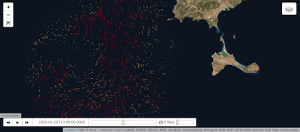
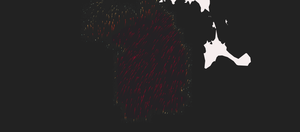
docs(examples): read the HF radar currents through OPeNDAP in example 18
The SOCIB Data API endpoint used by the example is gone. The velocity
layer now reads the gridded U/V from THREDDS through OPeNDAP (DAP2
ASCII): the time axis from .dds/.das, one grid per time step, and
builds the leaflet-velocity data itself. Brackets in the constraint
expression are percent-encoded because Tomcat rejects them raw. Drop
the unused underscore.js, load Leaflet from jsDelivr and fix the link
to example 17. Refresh the index thumbnail.

diff --git a/examples/js/example18.js b/examples/js/example18.js
@@ -3,167 +3,194 @@ var endDate = new Date();
 endDate.setUTCHours(endDate.getUTCHours() - 1);
 endDate.setUTCMinutes(0, 0, 0);
 
+/*
+ * HF radar surface currents read from a THREDDS dataset through OPeNDAP:
+ * one small ASCII subset of U and V per time step.
+ */
 L.TimeDimension.Layer.VelocityLayer.Radar = L.TimeDimension.Layer.VelocityLayer.extend({
 
     initialize: function(options) {
         L.TimeDimension.Layer.VelocityLayer.prototype.initialize.call(this, options);
-        this._socibDataSource = this.options.socibDataSource || null;
-        this._apiKey = this.options.apiKey || null;
-        this._proxy = this.options.proxy || null;
-
-        // Update availableTimes from datasource metadata
+        this._uVariable = this.options.uVariable || 'U';
+        this._vVariable = this.options.vVariable || 'V';
+        this._maxTimes = this.options.maxTimes || 744; // last 31 days of hourly data
         this._updateTimeDimension = this.options.updateTimeDimension || false;
         this._updateTimeDimensionMode = this.options.updateTimeDimensionMode || 'intersect'; // 'union' or 'replace'
-        this._period = this.options.period || 'PT1H';
         this._setDefaultTime = this.options.setDefaultTime || false;
-        this._endTime = this.options.endTime || null;
-        this._metadataRequested = false;
-        if (this._updateTimeDimension) {
-            this._requestDataSourceMetadata();
-        }
-    },    
-
-    onAdd: function(map) {
-        L.TimeDimension.Layer.VelocityLayer.prototype.onAdd.call(this, map);
-        if (this._updateTimeDimension) {
-            if (this._endTime === null) {
-                this._requestDataSourceMetadata();
-            } else {
-                this._updateTimeDimensionAvailableTimes();
-            }
-        }
+        this._grid = null; // {lat: [], lon: [], times: [ms], firstIndex: int}
+        this._pendingTime = null;
+        this._requestGrid();
     },
 
-    _constructQuery: function(time) {
-        var startDate = new Date(time);
-        var endDate = new Date(startDate.getTime());
-        L.TimeDimension.Util.addTimeDuration(endDate, "PT30M", false);
-        var timeParams =
-            "&initial_datetime=" +
-            startDate.toISOString().substring(0, 19) +
-            "&end_datetime=" +
-            endDate.toISOString().substring(0, 19);
-        var url = this._baseURL + this._socibDataSource +
-                    "/data/?max_qc_value=3&standard_name=northward_sea_water_velocity&standard_name=eastward_sea_water_velocity&processing_level=L1&format=json" + 
-                    timeParams;
-        if (this._apiKey) {
-            url = url + "&api_key=" + this._apiKey;
+    _getDataForTime: function(time) {
+        if (!this._map) {
+            return;
         }
-        if (this._proxy) {
-            url = this._proxy + "?url=" + encodeURIComponent(url);
+        if (!this._grid) {
+            this._pendingTime = time;
+            return;
         }
-        return url;
+        var index = this._grid.times.indexOf(time);
+        if (index === -1) {
+            this._setDataForTime(time, []);
+            return;
+        }
+        index = index + this._grid.firstIndex;
+        var subset = '[' + index + '][0:1:' + (this._grid.lat.length - 1) + '][0:1:' + (this._grid.lon.length - 1) + ']';
+        var url = this._baseURL + '.ascii?' + this._encodeConstraint(this._uVariable + subset + ',' + this._vVariable + subset);
+        this._request(url, (function(text) {
+            var data = this._parseOpendapAscii(text);
+            this._setDataForTime(time, this._buildVelocityData(data[this._uVariable], data[this._vVariable], time));
+        }).bind(this));
     },
 
-    _processLoadedData: function(data) {
-        if (data.length === 0) {
-            return [];
+    _setDataForTime: function(time, data) {
+        this._currentTimeData = data;
+        this._currentLoadedTime = time;
+        if (this._timeDimension && time == this._timeDimension.getCurrentTime() && !this._timeDimension.isLoading()) {
+            this._update();
         }
-        findVariable = function(standard_name, variable) {
-            return variable.standard_name === standard_name;
-        };
-        var u = data[0].variables.find(findVariable.bind(this, "eastward_sea_water_velocity"));
-        var v = data[0].variables.find(findVariable.bind(this, "northward_sea_water_velocity"));
-        var lat = data[0].coordinates.latitude;
-        var lon = data[0].coordinates.longitude;
-        var time = data[0].coordinates.time.data;
-
-        var u_header = {
-            parameterUnit: u.units,
-            parameterNumberName: u.standard_name,
-            parameterNumber: 2,
-            parameterCategory: 2,
-            la1: lat.data[0],
-            la2: lat.data[lat.data.length - 1],
-            lo1: lon.data[0],
-            lo2: lon.data[lon.data.length - 1],
-            nx: lon.data.length,
-            ny: lat.data.length,
-            refTime: time
-        };
-        u_header["dx"] = (u_header["lo2"] - u_header["lo1"]) / u_header["nx"];
-        u_header["dy"] = (u_header["la1"] - u_header["la2"]) / u_header["ny"];
-
-        var v_header = {
-            parameterUnit: v.units,
-            parameterNumberName: v.standard_name,
-            parameterNumber: 3, // northward-v
-            parameterCategory: 2,
-            la1: lat.data[0],
-            la2: lat.data[lat.data.length - 1],
-            lo1: lon.data[0],
-            lo2: lon.data[lon.data.length - 1],
-            nx: lon.data.length,
-            ny: lat.data.length,
-            refTime: time
-        };
-        v_header["dx"] = (v_header["lo2"] - v_header["lo1"]) / v_header["nx"];
-        v_header["dy"] = (v_header["la1"] - v_header["la2"]) / v_header["ny"];
-
-        return [
-            {
-                header: u_header,
-                data: _.flatten(u.data[0])
-            },
-            {
-                header: v_header,
-                data: _.flatten(v.data[0])
-            }
-        ];
+        this.fire('timeload', {
+            time: time
+        });
     },
 
-    _setEndTime: function(endTime) {
-        this._endTime = endTime;        
-    },
-
-    _getDefaultTime: function() {
-        return this._endTime;
+    // Grid: the size of the time axis (DDS), its units (DAS), then LAT, LON and the last times (ASCII)
+    _requestGrid: function() {
+        this._request(this._baseURL + '.dds', (function(dds) {
+            var size = parseInt(dds.match(/time\[time = (\d+)\]/)[1], 10);
+            this._request(this._baseURL + '.das', (function(das) {
+                var units = das.match(/time \{[^}]*units "hours since ([^"]+)"/)[1]; // e.g. 2012-06-01 00:00:00.000 UTC
+                var origin = Date.parse(units.replace(' ', 'T').replace(' UTC', 'Z'));
+                var first = Math.max(0, size - this._maxTimes);
+                var url = this._baseURL + '.ascii?' + this._encodeConstraint('LAT,LON,time[' + first + ':1:' + (size - 1) + ']');
+                this._request(url, (function(text) {
+                    var data = this._parseOpendapAscii(text);
+                    var times = [];
+                    for (var i = 0, l = data.time.length; i < l; i++) {
+                        times.push(origin + data.time[i] * 3600000);
+                    }
+                    this._grid = {
+                        lat: data.LAT,
+                        lon: data.LON,
+                        times: times,
+                        firstIndex: first
+                    };
+                    this._updateTimeDimensionAvailableTimes();
+                    if (this._pendingTime !== null) {
+                        this._getDataForTime(this._pendingTime);
+                        this._pendingTime = null;
+                    }
+                }).bind(this));
+            }).bind(this));
+        }).bind(this));
     },
 
     _updateTimeDimensionAvailableTimes: function() {
         if (this._timeDimension && this._updateTimeDimension) {
-            var startTime = new Date(this._timeDimension.getAvailableTimes()[0]);
-            var times = L.TimeDimension.Util.explodeTimeRange(startTime, this._endTime, this._period);
-            this._timeDimension.setAvailableTimes(times, this._updateTimeDimensionMode);
+            this._timeDimension.setAvailableTimes(this._grid.times, this._updateTimeDimensionMode);
             if (this._setDefaultTime) {
-                var defaultTime = this._getDefaultTime();
-                if (defaultTime !== this._timeDimension.getCurrentTime()){
-                    this._timeDimension.setCurrentTime(this._getDefaultTime());
-                }
+                var times = this._timeDimension.getAvailableTimes();
+                this._timeDimension.setCurrentTime(times[times.length - 1]);
             }
         }
     },
 
-    _requestDataSourceMetadata: function() {
-        if (this._metadataRequested) {
-            return;
-        }
-        this._metadataRequested = true;
-        var url = this._baseURL + this._socibDataSource + "/?";
-        if (this._apiKey) {
-            url = url + "&api_key=" + this._apiKey;
-        }
-        if (this._proxy) {
-            url = this._proxy + "?url=" + encodeURIComponent(url);
-        }
+    // Tomcat rejects raw brackets in the query string
+    _encodeConstraint: function(constraint) {
+        return constraint.replace(/\[/g, '%5B').replace(/\]/g, '%5D');
+    },
+
+    _request: function(url, callback) {
         var oReq = new XMLHttpRequest();
-        oReq.addEventListener("load", (function(xhr) {
-            var data = null;
-            try {
-                var response = xhr.currentTarget.response;
-                data = JSON.parse(response);
-            } catch(e) {
-                console.log("Error parsing API response", e);
-            }
-            if (data !== null){
-                var end_datetime = new Date(Date.parse(data['end_datetime']));
-                this._setEndTime(end_datetime);
-                this._updateTimeDimensionAvailableTimes();
-            }
-        }).bind(this));        
+        oReq.addEventListener("load", function(xhr) {
+            callback(xhr.currentTarget.response);
+        });
         oReq.open("GET", url);
         oReq.send();
-    },     
+    },
+
+    // OPeNDAP ASCII response to {variable: [values]}; NaN becomes null, rows are flattened in order
+    _parseOpendapAscii: function(text) {
+        var result = {};
+        var lines = text.split('\n');
+        var i = 0;
+        while (i < lines.length && lines[i].indexOf('-----') !== 0) {
+            i++;
+        }
+        var current = null;
+        for (i = i + 1; i < lines.length; i++) {
+            var line = lines[i].trim();
+            if (line === '') {
+                current = null;
+                continue;
+            }
+            var header = line.match(/^(\w+)\[/);
+            if (header && line.indexOf(',') === -1) {
+                current = header[1];
+                result[current] = [];
+                continue;
+            }
+            if (!current) {
+                continue;
+            }
+            var values = line.split(',');
+            if (values[0].charAt(0) === '[') {
+                values.shift(); // row index, e.g. [0][12]
+            }
+            for (var j = 0, l = values.length; j < l; j++) {
+                var value = parseFloat(values[j]);
+                result[current].push(isNaN(value) ? null : value);
+            }
+        }
+        return result;
+    },
+
+    // leaflet-velocity expects the rows ordered from north to south
+    _buildVelocityData: function(u, v, time) {
+        var lat = this._grid.lat;
+        var lon = this._grid.lon;
+        var ny = lat.length;
+        var nx = lon.length;
+        if (lat[0] < lat[ny - 1]) {
+            u = this._flipRows(u, nx, ny);
+            v = this._flipRows(v, nx, ny);
+        }
+        var header = {
+            parameterCategory: 2,
+            parameterUnit: 'm s-1',
+            la1: Math.max(lat[0], lat[ny - 1]),
+            la2: Math.min(lat[0], lat[ny - 1]),
+            lo1: lon[0],
+            lo2: lon[nx - 1],
+            nx: nx,
+            ny: ny,
+            dx: Math.abs(lon[1] - lon[0]),
+            dy: Math.abs(lat[1] - lat[0]),
+            refTime: new Date(time).toISOString()
+        };
+        return [{
+            header: L.extend({
+                parameterNumber: 2,
+                parameterNumberName: 'eastward_sea_water_velocity'
+            }, header),
+            data: u
+        }, {
+            header: L.extend({
+                parameterNumber: 3,
+                parameterNumberName: 'northward_sea_water_velocity'
+            }, header),
+            data: v
+        }];
+    },
+
+    _flipRows: function(values, nx, ny) {
+        var flipped = [];
+        for (var row = ny - 1; row >= 0; row--) {
+            flipped = flipped.concat(values.slice(row * nx, (row + 1) * nx));
+        }
+        return flipped;
+    }
 
 });
 
@@ -209,12 +236,10 @@ L.control.layers(baseLayers, {}).addTo(map);
 GSHHS_h_L1.addTo(map);
 
 var testVelocityRadarLayer = L.timeDimension.layer.velocityLayer.radar({
-    baseURL: "https://api.socib.es/data-sources/",
-    socibDataSource: "f8e2429729",    
+    baseURL: "https://thredds.socib.es/thredds/dodsC/observational/hf_radar/hf_radar_ibiza-scb_codarssproc001_L1_agg/hf_radar_ibiza-scb_codarssproc001_L1_agg_best.ncd",
     updateTimeDimension: true,
     updateTimeDimensionMode: 'intersect',
     setDefaultTime: true,
-    proxy: "server/proxy-api.php",    
     velocityLayerOptions: {
         particleAge: 30
     }

diff --git a/examples/example18.html b/examples/example18.html
@@ -39,7 +39,7 @@
             <pre><code class="javascript" id="code"></code></pre>
 
             <div class="prev-example">
-                <a href="example16.html">Example 17: Basic GeoJSON usage</a>
+                <a href="example17.html">Example 17: Basic GeoJSON usage</a>
             </div>
             <div class="next-example">
                 <a href="index.html">Index</a>
@@ -49,13 +49,12 @@
                 <a class="github" href="https://github.com/socib/Leaflet.TimeDimension" title="Fork Leaflet.TimeDimension at GitHub!"><span>Fork Leaflet.TimeDimension at GitHub</span></a>
             </div>
         </div>
-        <script src="https://npmcdn.com/leaflet@1.7.1/dist/leaflet.js"></script>
+        <script src="https://cdn.jsdelivr.net/npm/leaflet@1.7.1/dist/leaflet.js"></script>
         <script type="text/javascript" src="https://cdnjs.cloudflare.com/ajax/libs/leaflet.fullscreen/1.4.2/Control.FullScreen.min.js"></script>
         <script type="text/javascript" src="https://cdn.jsdelivr.net/npm/leaflet.nontiledlayer@1.0.7/dist/NonTiledLayer.js"></script>
         <script type="text/javascript" src="https://cdn.jsdelivr.net/npm/leaflet-velocity@1.9.0/dist/leaflet-velocity.min.js"></script>
         <script type="text/javascript" src="https://cdn.jsdelivr.net/npm/iso8601-js-period@0.2.1/iso8601.min.js"></script>
         <script type="text/javascript" src="https://cdn.jsdelivr.net/npm/dateformat@3.0.3/lib/dateformat.js"></script>
-        <script type="text/javascript" src="https://cdnjs.cloudflare.com/ajax/libs/underscore.js/1.8.3/underscore-min.js"></script>
 
         <script type="text/javascript" src="../src/leaflet.timedimension.js"></script>
         <script type="text/javascript" src="../src/leaflet.timedimension.util.js"></script>
